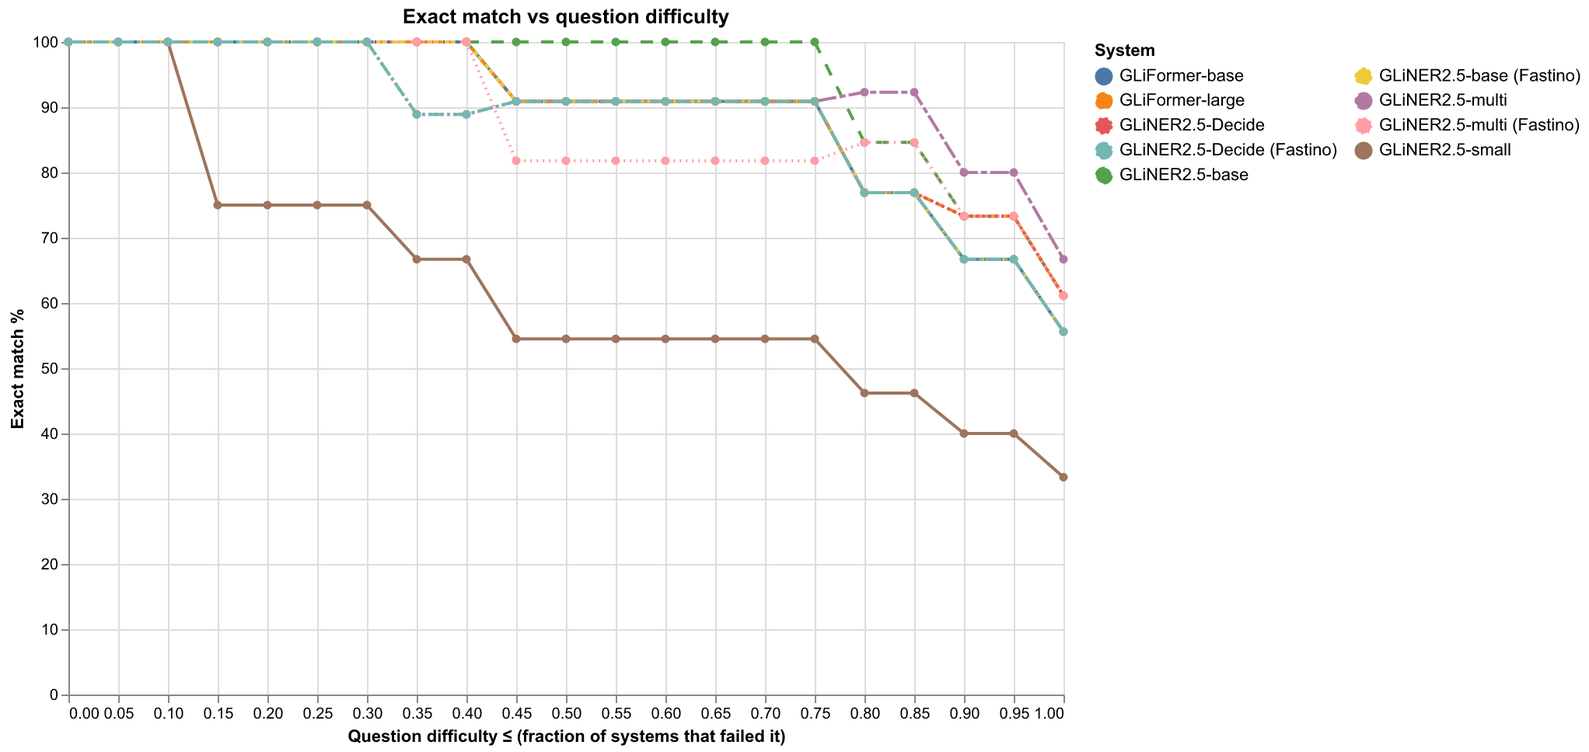
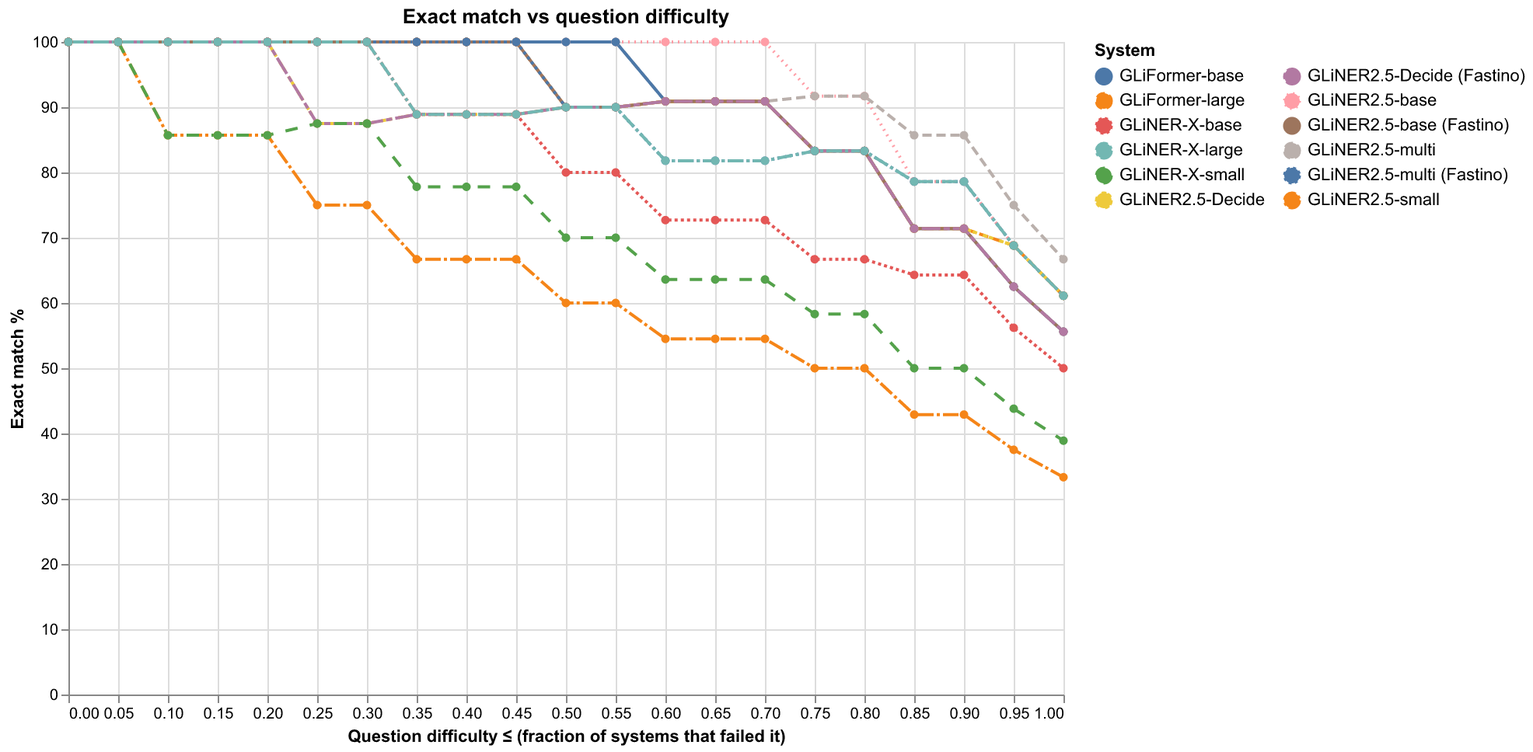
docs(readme,charts): record GLiNER-X's spectrum and multilingual runs

diff --git a/README.md b/README.md
@@ -1,7 +1,7 @@
 # zero-shot-ie-bench
 
-Sixty-five zero-shot systems (sixty-two of them benchmarked) across
-thirty-three information-extraction and classification families —
+Sixty-eight zero-shot systems (sixty-five of them benchmarked) across
+thirty-four information-extraction and classification families —
 extractor encoders, a purpose-built classifier, cross-encoder rerankers,
 and typed-decision engines (local and cloud, the hosted ones behind
 OpenRouter's decision and rerank endpoints plus Fastino's API, plus five
@@ -14,6 +14,7 @@ Just here for the results? **[Skip to the benchmark charts](#benchmark-charts)**
 | System | Kind | Size | License | Cost |
 |---|---|---|---|---|
 | [GLiNER 2.5](https://github.com/fastino-ai/GLiNER2) (`fastino/gliner2.5-*`) | local extractor encoder (boundary arch) | 74M / 194M / 287M | Apache 2.0 | $0 · local |
+| [GLiNER-X](https://huggingface.co/knowledgator/gliner-x-small) (`knowledgator/gliner-x-{small,base,large}`) | local multilingual extractor encoder (span-level gliner over an mT5 encoder — the first non-DeBERTa GLiNER here — with a stanza word splitter; NER-only, HF-card-only release) | 300M / 494M / 865M | Apache 2.0 | $0 · local |
 | [GLiNER2.5-Decide](https://huggingface.co/fastino/GLiNER2.5-Decide) (`fastino/GLiNER2.5-Decide`) | local decision-tuned classifier in the GLiNER 2.5 family (spans + label heads, one pass) | 340M | Apache 2.0 | $0 · local |
 | [GLiFormer](https://github.com/Knowledgator/GLiFormer) (`knowledgator/gliformer-*`) | local extractor encoder (layout-aware DeBERTa) | ~190M / 575.6M | Apache 2.0 | $0 · local |
 | [GLiREL](https://github.com/jackboyla/GLiREL) (`jackboyla/glirel-large-v0`) | local zero-shot relation extractor (label-prompted encoder over entity pairs) | ~467M | CC BY-NC-SA 4.0 | $0 · local |
@@ -72,6 +73,7 @@ tokens but no $, so its figures are derived — list price × measured
 tokens, the same rule as the Clef pair's and GLiDE's numbers.
 
 Four mechanism families are represented — **extractors** (GLiNER 2.5,
+GLiNER-X: spans only, multilingual by design,
 GLiFormer: spans/entities/relations/records, plus GLiREL: zero-shot
 relations over entity pairs it is handed, GLiNER-relex: joint NER +
 relations in one pass, and ReLiK: retriever-reader relations over a
@@ -104,7 +106,8 @@ models — NLI entailment classifiers, the Semantic-Router `decision`, the
 full JevK5 4B and Winnow E4B). The GLiNER lineage
 forked between Fastino (GLiNER 2.5, original author Urchade Zaratiana)
 and Knowledgator (classic `gliner` — GLiNER-relex is that line's joint
-NER+relations checkpoint — plus GLiFormer, GLiClass); GLiREL
+NER+relations checkpoint — plus GLiFormer, GLiClass, and 2026's
+GLiNER-X, the line's first mT5-encoder generation); GLiREL
 (jackboyla) grows out of the same architecture into relation extraction,
 and Laya's card positions itself as the open local counterpart of cloud
 Jev.
@@ -153,11 +156,11 @@ Caveats worth knowing:
   collapse Laya onto one label (58.3%); benchmarked with strings, where
   it scores 95.8%.
 
-## Mixed-pool spectrum benchmark (all 62 systems)
+## Mixed-pool spectrum benchmark (all 65 systems)
 
 `bench_spectrum.py` — the headline comparison. Every system answers the
 same **one mixed pool** of 48 classification questions (sentiment + topic,
-varying difficulty); the six local extractors and the three hosted GLiNER
+varying difficulty); the nine local extractors and the three hosted GLiNER
 twins also answer 18 NER questions.
 Question difficulty is **measured** as the fraction of answering systems
 that got it wrong; the web UI plots accuracy along that spectrum, and
@@ -223,9 +226,12 @@ exact span-set match (18 questions). † = hosted via OpenRouter (non-ZDR):
 | LFM2.5-RLCD 350M | 56.2% | 0.469 | n/a | |
 | Lumma-fev 0.15B | 56.2% | 0.256 | n/a | |
 | Lumma-fev 0.6B | 54.2% | 0.587 | n/a | |
+| GLiNER-X-base | 45.8% | 0.103 | 50% | 0.079 |
 | so1 + Qwen2.5-0.5B | 43.8% | 0.237 | n/a | |
 | Verdict 151M (local) | 39.6% | 0.165 | n/a | |
+| GLiNER-X-large | 39.6% | 0.224 | 61% | 0.162 |
 | nemotron-rerank-vl-1b (OpenRouter) † | 35.4% | 4.521 | n/a | |
+| GLiNER-X-small | 33.3% | 0.063 | 39% | 0.046 |
 | Julia 1 144M | 31.2% | 0.067 | n/a | |
 | nanodiff 350M | 25.0% | 11.56 | n/a | |
 | Certo 421M | 22.9% | 1.014 | n/a | |
@@ -360,6 +366,20 @@ Takeaways:
 - Verdict abstains on 22/48 (abstention scores wrong): 73% on what it
   answers, 39.6% overall. so1 works mechanically, but a 0.5B base LLM is not
   enough brain — swap in a bigger one.
+- **GLiNER-X: the first mT5-backbone GLiNER here is a NER specialist, not
+  a decision engine** — Knowledgator's 2026-04-29 multilingual generation
+  (300M / 494M / 865M; HF-card-only release, no blog, no paper) swaps
+  DeBERTa for an mT5 encoder and a stanza word splitter, in its own
+  `.venv-glinerx` (the card's `gliner[stanza]` install resolves
+  transformers 5.x — incompatible with the pinned main venv). NER exact
+  scales with size, 39% → 50% → 61%, and the large lands level with
+  GLiNER2.5-base (61%) at 0.162 s/question — while classification
+  collapses at every size (33.3 / 45.8 / 39.6%): the card never claims
+  it, the training data is NER synthetic, and the vendor multitask
+  prompt's "answers" read like another NER pass over the prompt (GPU,
+  IPO, Biotech, central bank). Benched through the vendor's own mapping
+  as census rows (`engines/glinerx_client.py`), like the other
+  chance-level systems.
 - Chance-level negatives kept as census rows: nanodiff 350M (diffusion
   LM, 25.0%, slowest at 11.6 s/question), Certo 421M (22.9%,
   near-uniform option probabilities) and nanodiff 350M v2 (18.8%,
@@ -468,7 +488,7 @@ images (regenerate with `python make_chart_images.py`):
 Popular: Spanish, French, Chinese · Medium: Vietnamese, Turkish,
 Ukrainian · Rare: **Sinhala**, Icelandic, Welsh. Sentences were verified
 by blind back-translation through an independent model instance (it
-caught 8 errors, including a sentiment-flipping Sinhala word). All 62
+caught 8 errors, including a sentiment-flipping Sinhala word). All 65
 systems answer the same 54 texts.
 
 | System | Popular | Medium | Rare | All |
@@ -532,6 +552,9 @@ systems answer the same 54 texts.
 | nanodiff 350M | 28% | 39% | 39% | 35% |
 | Lumma-fev 0.15B | 39% | 33% | 33% | 35% |
 | nanodiff 350M v2 | 39% | 28% | 33% | 33% |
+| GLiNER-X-small | 33% | 28% | 33% | 31% |
+| GLiNER-X-base | 33% | 28% | 33% | 31% |
+| GLiNER-X-large | 33% | 33% | 28% | 31% |
 | gliclass-edge | 50% | 22% | 22% | 31% |
 | Certo 421M | 28% | 28% | 33% | 30% |
 | Verdict 151M (local) | 50% | 11% | 6% | 22% |
@@ -588,6 +611,16 @@ surprisingly well for an English-family release (81%, 100% Chinese,
   joint-best local Sinhala 67%); 100%-on-Sinhala is shared by ten
   systems — Jev, jevk5 4B, winnow e4b, Solar Decide, Clef, Clef-flash,
   GLiDE, hosted Kev 4B, Span-01 and Intern-Decision 0.8B.
+- **GLiNER-X's multilingual rows are census rows, not a multilingual
+  result** — the mT5-encoder family is NER-only (the card claims token
+  classification and trains on NER synthetic data), so all three sizes
+  answer the 54 sentiment texts through the vendor multitask prompt and
+  collapse onto one label: 31.5% overall (popular 33 / medium 28 / rare
+  28-33), i.e. the two negative texts per language and nothing else, at
+  0.106-0.252 s/text. The card's ~21-language coverage (incl. lt, et,
+  lv, sl, uk, da, sv, no, cs, pl, ar, zh, hi) is an NER claim this
+  sentiment-only bench cannot score — there is no multilingual NER pool
+  here to show it in.
 - bge-reranker-v2-m3's flat 67/67/67 is structural: it never predicts
   neutral (35 neg / 19 pos across all 54 texts), so every language
   scores exactly 4/6 — right on the four subjective texts, wrong on
@@ -603,24 +636,24 @@ surprisingly well for an English-family release (81%, 100% Chinese,
 
 ## Feature comparison
 
-| Capability | GLiNER 2.5 | GLiNER 2.5 (Fastino) | GLiFormer | GLiClass | Rerankers | Laya | von | so1 | Jev | Kev | AgentJev | decider | OpenThai | Verdict | JevK5-Lite | LFM2.5-RLCD | Certo | MoJev | nanodiff | nanodiff v2 | NLI (Ollaya) | decision (Ollaya) | JevK5 4B (Ollaya) | winnow (Ollaya) | Lumma | Julia | Intern-Decision | K2-Type | Decision 2.0 |
-| --- | --- | --- | --- | --- | --- | --- | --- | --- | --- | --- | --- | --- | --- | --- | --- | --- | --- | --- | --- | --- | --- | --- | --- | --- | --- | --- | --- | --- | --- |
-| Ability group | Extractor | Extractor (hosted twin, Fastino API) | Extractor | Classifier | Cross-encoder rerankers (decision via argmax) | Decision engine | Decision engine | Decision engine (BYO LLM) | Decision engine (cloud) | Decision engine (local, open weights) | Decision engine (local, open weights) | Decision engine (local, open weights) | Decision engine (local, open weights) | Decision engine (local, encoder head) | Decision engine (local, label-head encoder) | Decision engine (local, constrained decoding) | Decision engine (local, per-option score head) | Decision engine (local, packed one-pass scoring) | Decision engine (local, diffusion LM) | Decision engine (local, diffusion LM) | Decision engine (local, NLI entailment) | Decision engine (local, endpoint head) | Decision engine (local, GGUF letter-logit LLM) | Decision engine (local, GGUF letter-logit LLM) | Decision engine (local, one forward over packed questions) | Decision engine (local, encoder + decision head) | Decision engine (local, masked-slot symbol logits) | Decision engine (local, pointer head over packed questions) | Decision engine (local, trained candidate head) |
-| Zero-shot NER spans | ✅ | ✅ | ✅ | ❌ | ❌ | ❌ | ❌ | ❌ | ❌ | ❌ | ❌ | ❌ | ❌ | ❌ | ❌ | ❌ | ❌ | ❌ | ❌ | ❌ | ❌ | ❌ | ❌ | ❌ | ❌ | ❌ | ❌ | ❌ | ❌ |
-| Text classification | ✅ | ✅ | ✅ | ✅ | ✅ via argmax | ✅ choice | ✅ choice | ✅ choice | ✅ choice | ✅ choice | ✅ choice | ✅ choice | ✅ choice | ✅ choice | ✅ choice | ✅ choice | ✅ choice | ✅ choice | ✅ choice | ✅ choice | ✅ choice | ✅ choice | ✅ choice | ✅ choice | ✅ choice | ✅ choice | ✅ choice | ✅ choice | ✅ choice |
-| All labels scored in one pass | ✅ | ✅ (all labels ride one request's schema) | ✅ | ✅ (its core design) | ❌ one pair per label | ✅ | ✅ | ✅ packed | ✅ one request | ✅ one request | ✅ one request | ✅ one request | ✅ one request | ✅ per query | ✅ one pass | ✅ per field | ✅ one pass | ✅ packed | ✅ one forward | ✅ one forward | ✅ all option pairs, one batched pass | ❌ one row per question | ❌ one pass per question | ❌ one question at a time (state evaluated once per request) | ✅ (all questions one forward) | ✅ (questions independently scored in one batch) | ✅ (per text, all questions one forward — up to 16 questions/request) | ✅ (all questions one forward) | ✅ (all questions one forward) |
-| Relations | ✅ + JointIE graph | ✅ | ✅ joint head | ❌ | ❌ | ❌ | ❌ | ❌ | ❌ | ❌ | ❌ | ❌ | ❌ | ❌ | ❌ | ❌ | ❌ | ❌ | ❌ | ❌ | ❌ | ❌ | ❌ | ❌ | ❌ | ❌ | ❌ | ❌ | ❌ |
-| Span attributes (per-entity sentiment) | ✅ | ✅ (multi twin) | ❌ | ❌ | ❌ | ❌ | ❌ | ❌ | ❌ | ❌ | ❌ | ❌ | ❌ | ❌ | ❌ | ❌ | ❌ | ❌ | ❌ | ❌ | ❌ | ❌ | ❌ | ❌ | ❌ | ❌ | ❌ | ❌ | ❌ |
-| Structured records | ✅ flat, anchor-based | ✅ | ✅ nested Pydantic | ❌ | ❌ | ❌ | ❌ | ❌ | ❌ | ❌ | ❌ | ❌ | ❌ | ❌ | ❌ | ✅ flat closed schema (3 fields + AR baseline demoed) | ❌ | ❌ | ❌ | ❌ | ❌ | ❌ | ❌ | ❌ | ❌ | ❌ | ❌ | ❌ | ❌ |
-| Ordinal score rubrics | ✅ via Decide (demoed) | ✅ via Decide twin (classifications demoed) | ❌ | ❌ | ❌ | ✅ score | ✅ rate (demoed) | ✅ scale (demoed) | ✅ score (demoed) | ✅ score (demoed) | ✅ score (demoed) | ✅ score (demoed) | ✅ score (demoed) | ✅ score (demoed) | ❌ (lite is classification-only) | ✅ enum rubric (demoed) | ❌ | ✅ score (demoed) | ❌ | ❌ | ✅ score (demoed) | ✅ score (demoed) | ✅ score (demoed) | ✅ score (demoed) | ✅ score | ✅ score | ✅ score | ✅ score | ✅ score |
-| Yes/no judgments | ❌ | ❌ | ❌ | ❌ | ❌ | ✅ noul | ✅ judge (demoed) | ✅ yes_no (demoed) | ✅ noul (demoed) | ✅ noul (demoed) | ✅ boolean (demoed) | ✅ noul (demoed) | ✅ noul (demoed) | ✅ noul (demoed) | ❌ | ✅ boolean (demoed) | ❌ | ✅ noul (demoed) | ❌ | ❌ | ✅ noul | ✅ noul | ✅ (true/false read as A/B) | ✅ (labels read as letters) | ✅ noul | ✅ noul | ✅ noul | ✅ noul | ✅ noul |
-| Text embeddings | ❌ | ❌ | ✅ 1024-d | ❌ (reranker-capable) | ❌ (cross-encoders only) | ❌ | ❌ | ❌ | ❌ | ❌ | ❌ | ❌ | ❌ | ❌ | ❌ | ❌ | ❌ | ❌ | ❌ | ❌ | ❌ | ❌ | ❌ | ❌ | ❌ | ❌ | ❌ | ❌ | ❌ |
-| Multilingual | ✅ multi ckpt (89% over 9 langs here) | ✅ multi twin (89% over 9 langs here, = local) | ❌ English (63%) | ✅ large 81% over 9 langs | bge-v2-m3 67% over 9 langs; mxbai 48% / GTE 44% | ✅ Router, 100+ langs (76%) | option-marker: 48% over 9 langs | = base LLM's languages (37%) | ✅ 100% incl. Sinhala | ✅ 78% over 9 langs | 63% over 9 langs | 83% over 9 langs | 83% over 9 langs | 22% over 9 langs | ✅ 78% over 9 langs | 52% over 9 langs | 30% over 9 langs | ✅ 83% over 9 langs | 35% over 9 langs | 33% over 9 langs | deberta 69% / modernbert 46% over 9 langs | ✅ 89% over 9 langs (best local tie) | ✅ 100% incl. Sinhala (only local 100%) | ✅ 98% over 9 langs (100% Sinhala) | ✅ 96% over 9 langs (4B; small ckpts 35–37%, English-centric) | 52% over 9 langs, rare-tier 56% (mmBERT) | ✅ 98% over 9 langs (4B; 0.8B 89%, 2B 91%) | ✅ 83% over 9 langs (rare-tier 56%) | 74–83% over 9 langs by size (Sol 83%); rare tier 44–61% |
-| Runs offline / data local | ✅ | ❌ (Fastino API, ZDR) | ✅ | ✅ | ✅ | ✅ | ✅ | ✅ | ❌ | ✅ | ✅ | ✅ | ✅ | ✅ | ✅ | ✅ | ✅ | ✅ | ✅ | ✅ | ✅ | ✅ | ✅ | ✅ | ✅ | ✅ | ✅ | ✅ | ✅ |
-| Image input | ❌ | ❌ | ❌ | ❌ | hosted Nemotron VL only (image documents, `demos/nemotron_vl_demo.py`); local trio + Cohere/Voyage are text-only | ❌ | ❌ | ❌ | ❌ | ❌ | ❌ | ❌ | ❌ | ❌ | ❌ | ❌ | ❌ | ❌ | ❌ | ❌ | ❌ | ❌ | ❌ | ❌ | ❌ | ❌ | ✅ (vision tower + projector ship in every snapshot; 1–8 images per request, same one forward — `demos/intern_decision_image_demo.py`) | ❌ | ❌ |
-| Cost | free | $0.03/1M input (output $0) | free | free | free | free | free | free | $0.042/1M input | free (CPU time) | free (CPU time) | free (CPU time) | free (CPU time) | free (CPU time) | free (CPU time) | free (CPU time) | free (CPU time) | free (CPU time) | free (CPU time) | free (CPU time) | free (CPU time) | free (CPU time) | free (CPU time) | free (CPU time) | free (CPU time) | free (CPU time) | free (CPU time) | free (CPU time) | free (CPU time) |
-| License | Apache 2.0 | Apache 2.0 weights; metered hosted API | Apache 2.0 | Apache 2.0 | Apache 2.0 | Apache 2.0 | Apache 2.0 | MIT (lib) | proprietary API | Apache 2.0 | Apache 2.0 | Apache 2.0 | Apache 2.0 (package); weights gated | Apache 2.0 | Apache 2.0 | MIT (engine); LFM Open License v1.0 (weights) | MIT (engine + weights) | MIT (engine; Qwen base-model license on encoder weights) | MIT | MIT | MIT (deberta card notes non-commercial training-data parts); Apache 2.0 (modernbert) | Apache 2.0 | Apache 2.0 (NOTICE: some training questions written by an OpenAI model) | Apache 2.0 | Apache 2.0 | Apache 2.0 | Apache 2.0 (Qwen3.5 upstream weights also Apache 2.0) | Apache 2.0 | Apache 2.0 |
-| Batch shape | per text | per text, one request (all labels in the schema) | per text (batch_size) | per text, all labels | per text, one pair per label | all questions, one pass | per text | one packed prompt | all questions, one request | all questions, one request | all questions, one request | all questions, one request | all questions, one request | per text, all options | per text, all heads + labels | per text, all field candidates | per text, all option descriptions | per text, all packed candidates | per text, one masked forward | per text, one masked forward | per text, one pair per option | per text, one row per question | per text, one request per question | per text, one request per question | per text, all questions one forward | per text, all questions one batch | per text, all questions one forward | per text, all questions one forward | per text, all questions one forward |
+| Capability | GLiNER 2.5 | GLiNER 2.5 (Fastino) | GLiFormer | GLiNER-X | GLiClass | Rerankers | Laya | von | so1 | Jev | Kev | AgentJev | decider | OpenThai | Verdict | JevK5-Lite | LFM2.5-RLCD | Certo | MoJev | nanodiff | nanodiff v2 | NLI (Ollaya) | decision (Ollaya) | JevK5 4B (Ollaya) | winnow (Ollaya) | Lumma | Julia | Intern-Decision | K2-Type | Decision 2.0 |
+| --- | --- | --- | --- | --- | --- | --- | --- | --- | --- | --- | --- | --- | --- | --- | --- | --- | --- | --- | --- | --- | --- | --- | --- | --- | --- | --- | --- | --- | --- | --- |
+| Ability group | Extractor | Extractor (hosted twin, Fastino API) | Extractor | Extractor | Classifier | Cross-encoder rerankers (decision via argmax) | Decision engine | Decision engine | Decision engine (BYO LLM) | Decision engine (cloud) | Decision engine (local, open weights) | Decision engine (local, open weights) | Decision engine (local, open weights) | Decision engine (local, open weights) | Decision engine (local, encoder head) | Decision engine (local, label-head encoder) | Decision engine (local, constrained decoding) | Decision engine (local, per-option score head) | Decision engine (local, packed one-pass scoring) | Decision engine (local, diffusion LM) | Decision engine (local, diffusion LM) | Decision engine (local, NLI entailment) | Decision engine (local, endpoint head) | Decision engine (local, GGUF letter-logit LLM) | Decision engine (local, GGUF letter-logit LLM) | Decision engine (local, one forward over packed questions) | Decision engine (local, encoder + decision head) | Decision engine (local, masked-slot symbol logits) | Decision engine (local, pointer head over packed questions) | Decision engine (local, trained candidate head) |
+| Zero-shot NER spans | ✅ | ✅ | ✅ | ✅ | ❌ | ❌ | ❌ | ❌ | ❌ | ❌ | ❌ | ❌ | ❌ | ❌ | ❌ | ❌ | ❌ | ❌ | ❌ | ❌ | ❌ | ❌ | ❌ | ❌ | ❌ | ❌ | ❌ | ❌ | ❌ | ❌ |
+| Text classification | ✅ | ✅ | ✅ | ❌ (NER-only; the vendor multitask prompt collapses — census rows here) | ✅ | ✅ via argmax | ✅ choice | ✅ choice | ✅ choice | ✅ choice | ✅ choice | ✅ choice | ✅ choice | ✅ choice | ✅ choice | ✅ choice | ✅ choice | ✅ choice | ✅ choice | ✅ choice | ✅ choice | ✅ choice | ✅ choice | ✅ choice | ✅ choice | ✅ choice | ✅ choice | ✅ choice | ✅ choice | ✅ choice |
+| All labels scored in one pass | ✅ | ✅ (all labels ride one request's schema) | ✅ | ❌ (one span pass per text) | ✅ (its core design) | ❌ one pair per label | ✅ | ✅ | ✅ packed | ✅ one request | ✅ one request | ✅ one request | ✅ one request | ✅ one request | ✅ per query | ✅ one pass | ✅ per field | ✅ one pass | ✅ packed | ✅ one forward | ✅ one forward | ✅ all option pairs, one batched pass | ❌ one row per question | ❌ one pass per question | ❌ one question at a time (state evaluated once per request) | ✅ (all questions one forward) | ✅ (questions independently scored in one batch) | ✅ (per text, all questions one forward — up to 16 questions/request) | ✅ (all questions one forward) | ✅ (all questions one forward) |
+| Relations | ✅ + JointIE graph | ✅ | ✅ joint head | ❌ | ❌ | ❌ | ❌ | ❌ | ❌ | ❌ | ❌ | ❌ | ❌ | ❌ | ❌ | ❌ | ❌ | ❌ | ❌ | ❌ | ❌ | ❌ | ❌ | ❌ | ❌ | ❌ | ❌ | ❌ | ❌ | ❌ |
+| Span attributes (per-entity sentiment) | ✅ | ✅ (multi twin) | ❌ | ❌ | ❌ | ❌ | ❌ | ❌ | ❌ | ❌ | ❌ | ❌ | ❌ | ❌ | ❌ | ❌ | ❌ | ❌ | ❌ | ❌ | ❌ | ❌ | ❌ | ❌ | ❌ | ❌ | ❌ | ❌ | ❌ | ❌ |
+| Structured records | ✅ flat, anchor-based | ✅ | ✅ nested Pydantic | ❌ | ❌ | ❌ | ❌ | ❌ | ❌ | ❌ | ❌ | ❌ | ❌ | ❌ | ❌ | ❌ | ✅ flat closed schema (3 fields + AR baseline demoed) | ❌ | ❌ | ❌ | ❌ | ❌ | ❌ | ❌ | ❌ | ❌ | ❌ | ❌ | ❌ | ❌ |
+| Ordinal score rubrics | ✅ via Decide (demoed) | ✅ via Decide twin (classifications demoed) | ❌ | ❌ | ❌ | ❌ | ✅ score | ✅ rate (demoed) | ✅ scale (demoed) | ✅ score (demoed) | ✅ score (demoed) | ✅ score (demoed) | ✅ score (demoed) | ✅ score (demoed) | ✅ score (demoed) | ❌ (lite is classification-only) | ✅ enum rubric (demoed) | ❌ | ✅ score (demoed) | ❌ | ❌ | ✅ score (demoed) | ✅ score (demoed) | ✅ score (demoed) | ✅ score (demoed) | ✅ score | ✅ score | ✅ score | ✅ score | ✅ score |
+| Yes/no judgments | ❌ | ❌ | ❌ | ❌ | ❌ | ❌ | ✅ noul | ✅ judge (demoed) | ✅ yes_no (demoed) | ✅ noul (demoed) | ✅ noul (demoed) | ✅ boolean (demoed) | ✅ noul (demoed) | ✅ noul (demoed) | ✅ noul (demoed) | ❌ | ✅ boolean (demoed) | ❌ | ✅ noul (demoed) | ❌ | ❌ | ✅ noul | ✅ noul | ✅ (true/false read as A/B) | ✅ (labels read as letters) | ✅ noul | ✅ noul | ✅ noul | ✅ noul | ✅ noul |
+| Text embeddings | ❌ | ❌ | ✅ 1024-d | ❌ | ❌ (reranker-capable) | ❌ (cross-encoders only) | ❌ | ❌ | ❌ | ❌ | ❌ | ❌ | ❌ | ❌ | ❌ | ❌ | ❌ | ❌ | ❌ | ❌ | ❌ | ❌ | ❌ | ❌ | ❌ | ❌ | ❌ | ❌ | ❌ | ❌ |
+| Multilingual | ✅ multi ckpt (89% over 9 langs here) | ✅ multi twin (89% over 9 langs here, = local) | ❌ English (63%) | ✅ 21-language card, NER-only — its classification rows here are chance-level (31.5% over 9 langs; GLiNER2.5-multi 89%) | ✅ large 81% over 9 langs | bge-v2-m3 67% over 9 langs; mxbai 48% / GTE 44% | ✅ Router, 100+ langs (76%) | option-marker: 48% over 9 langs | = base LLM's languages (37%) | ✅ 100% incl. Sinhala | ✅ 78% over 9 langs | 63% over 9 langs | 83% over 9 langs | 83% over 9 langs | 22% over 9 langs | ✅ 78% over 9 langs | 52% over 9 langs | 30% over 9 langs | ✅ 83% over 9 langs | 35% over 9 langs | 33% over 9 langs | deberta 69% / modernbert 46% over 9 langs | ✅ 89% over 9 langs (best local tie) | ✅ 100% incl. Sinhala (only local 100%) | ✅ 98% over 9 langs (100% Sinhala) | ✅ 96% over 9 langs (4B; small ckpts 35–37%, English-centric) | 52% over 9 langs, rare-tier 56% (mmBERT) | ✅ 98% over 9 langs (4B; 0.8B 89%, 2B 91%) | ✅ 83% over 9 langs (rare-tier 56%) | 74–83% over 9 langs by size (Sol 83%); rare tier 44–61% |
+| Runs offline / data local | ✅ | ❌ (Fastino API, ZDR) | ✅ | ✅ (stanza tokenize models cache per language on first use) | ✅ | ✅ | ✅ | ✅ | ✅ | ❌ | ✅ | ✅ | ✅ | ✅ | ✅ | ✅ | ✅ | ✅ | ✅ | ✅ | ✅ | ✅ | ✅ | ✅ | ✅ | ✅ | ✅ | ✅ | ✅ | ✅ |
+| Image input | ❌ | ❌ | ❌ | ❌ | ❌ | hosted Nemotron VL only (image documents, `demos/nemotron_vl_demo.py`); local trio + Cohere/Voyage are text-only | ❌ | ❌ | ❌ | ❌ | ❌ | ❌ | ❌ | ❌ | ❌ | ❌ | ❌ | ❌ | ❌ | ❌ | ❌ | ❌ | ❌ | ❌ | ❌ | ❌ | ❌ | ✅ (vision tower + projector ship in every snapshot; 1–8 images per request, same one forward — `demos/intern_decision_image_demo.py`) | ❌ | ❌ |
+| Cost | free | $0.03/1M input (output $0) | free | free | free | free | free | free | free | $0.042/1M input | free (CPU time) | free (CPU time) | free (CPU time) | free (CPU time) | free (CPU time) | free (CPU time) | free (CPU time) | free (CPU time) | free (CPU time) | free (CPU time) | free (CPU time) | free (CPU time) | free (CPU time) | free (CPU time) | free (CPU time) | free (CPU time) | free (CPU time) | free (CPU time) | free (CPU time) | free (CPU time) |
+| License | Apache 2.0 | Apache 2.0 weights; metered hosted API | Apache 2.0 | Apache 2.0 | Apache 2.0 | Apache 2.0 | Apache 2.0 | Apache 2.0 | MIT (lib) | proprietary API | Apache 2.0 | Apache 2.0 | Apache 2.0 | Apache 2.0 (package); weights gated | Apache 2.0 | Apache 2.0 | MIT (engine); LFM Open License v1.0 (weights) | MIT (engine + weights) | MIT (engine; Qwen base-model license on encoder weights) | MIT | MIT | MIT (deberta card notes non-commercial training-data parts); Apache 2.0 (modernbert) | Apache 2.0 | Apache 2.0 (NOTICE: some training questions written by an OpenAI model) | Apache 2.0 | Apache 2.0 | Apache 2.0 | Apache 2.0 (Qwen3.5 upstream weights also Apache 2.0) | Apache 2.0 | Apache 2.0 |
+| Batch shape | per text | per text, one request (all labels in the schema) | per text (batch_size) | per text | per text, all labels | per text, one pair per label | all questions, one pass | per text | one packed prompt | all questions, one request | all questions, one request | all questions, one request | all questions, one request | all questions, one request | per text, all options | per text, all heads + labels | per text, all field candidates | per text, all option descriptions | per text, all packed candidates | per text, one masked forward | per text, one masked forward | per text, one pair per option | per text, one row per question | per text, one request per question | per text, one request per question | per text, all questions one forward | per text, all questions one batch | per text, all questions one forward | per text, all questions one forward | per text, all questions one forward |
 
 ## Setup
 
@@ -646,6 +679,18 @@ uv pip install --python .venv-von -r requirements-von.txt
 # engines/relik_client.py installs — no site-packages patching):
 uv venv --python 3.11 .venv-relik
 uv pip install --python .venv-relik -r requirements-relik.txt
+# GLiNER-X (Knowledgator's mT5-encoder multilingual family) loads through
+# the classic gliner package with the stanza extra (per the model card);
+# a fresh gliner[stanza] resolve wants transformers 5.x, so it gets its
+# own venv instead of touching the pinned main stack:
+uv venv .venv-glinerx
+uv pip install --python .venv-glinerx "gliner[stanza]"
+# the checkpoints' config sets words_splitter_type=stanza, so the word
+# splitter language-detects every text and lazily builds a stanza
+# tokenize pipeline per language — the first bench run downloads those
+# per-language models (Windows cache:
+# %LOCALAPPDATA%/StanfordNLP/stanza/Cache) and the multilingual bench
+# warms them untimed before its timed loop
 # Kev (Jev's open-weights lookalike) serves the same System One contract
 # locally; it needs transformers >=5.17, so it runs from its own clone:
 git clone https://github.com/jaredpalmer/kev.git ../kev
@@ -876,25 +921,37 @@ C:/venvs/agent-jev/Scripts/python demos/verdict_demo.py
                                          # served models (needs `ollaya
                                          # serve`; --models=nli,decision
                                          # picks a subset)
+.venv-glinerx/Scripts/python demos/glinerx_demo.py --tour
+                                         # GLiNER-X tour: multilingual NER
+                                         # (mT5 encoder + stanza word
+                                         # splitter) + the NER-only
+                                         # classification caveat
+                                         # (.venv-glinerx; see setup)
 
 .venv/Scripts/python bench.py            # flat suite, 5 runs per case
                                          # (--repeats N) → results/bench_results.json
 .venv/Scripts/python bench_spectrum.py --system <name>   # one mixed pool per
                                          # system → results/bench_spectrum_results.json
-                                         # (62 systems; von, JevK5-Lite,
+                                         # (65 systems; von, JevK5-Lite,
                                          # LFM2.5-RLCD 350M, MoJev 0.85B,
                                          # Lumma-Fev, Julia 1,
                                          # Intern-Decision, K2-Type and
                                          # Decision 2.0:
                                          # same command
                                          # under .venv-von/Scripts/python)
+# GLiNER-X runs in-process from .venv-glinerx (classic gliner + stanza):
+.venv-glinerx/Scripts/python bench_spectrum.py --system GLiNER-X-small
+.venv-glinerx/Scripts/python bench_spectrum.py --system GLiNER-X-base
+.venv-glinerx/Scripts/python bench_spectrum.py --system GLiNER-X-large
 # decider/OpenThai speak plain HTTP, so any interpreter works — but Verdict
 # imports rlcd in-process and needs the transformers-5 agent-jev interpreter:
 C:/venvs/agent-jev/Scripts/python bench_spectrum.py --system "Verdict 151M (local)"
 .venv/Scripts/python bench_multilingual.py --system <name>
-                                         # 9 languages, all 62 systems →
+                                         # 9 languages, all 65 systems →
                                          # results/bench_multilingual_results.json
                                          # (same interpreter rules)
+.venv-glinerx/Scripts/python bench_multilingual.py --system GLiNER-X-small
+                                         # (also GLiNER-X-base / GLiNER-X-large)
 .venv-von/Scripts/python bench_multilingual.py --system "Lumma-fev 0.15B"
                                          # (also "Lumma-fev 0.6B" / "Lumma-fev 4B")
 .venv-von/Scripts/python bench_multilingual.py \
@@ -938,7 +995,8 @@ C:/venvs/agent-jev/Scripts/python bench_spectrum.py --system "Verdict 151M (loca
 `app.py` serves a live demo tab per family — GLiNER 2.5 (checkpoint
 selector includes GLiNER2.5-Decide, plus a Decide score-rubric
 section), GLiFormer, GLiREL, GLiNER-relex,
-ReLiK, GLiClass, Rerankers, Laya, von, JevK5-Lite, LFM2.5-RLCD, Certo,
+ReLiK, GLiNER-X (small/base/large checkpoint dropdown), GLiClass,
+Rerankers, Laya, von, JevK5-Lite, LFM2.5-RLCD, Certo,
 MoJev, nanodiff (v1/v2 checkpoint radio), Lumma (0.15B/0.6B/4B
 checkpoint dropdown), Julia,
 Intern-Decision (0.8B/2B/4B checkpoint dropdown), K2-Type, Decision 2.0 (Kai/Eos/Sol checkpoint dropdown), so1 (choice plus a
@@ -962,7 +1020,10 @@ Julia, Intern-Decision, K2-Type, Decision 2.0) spawn one-shot `demos/*_demo.py -
 its model once per click in a single `.venv-von` process; nanodiff does
 the same under the main venv, and ReLiK spawns `demos/relik_demo.py`
 from `.venv-relik`
-(first click loads the pipeline and, once, downloads ~700 MB). von's
+(first click loads the pipeline and, once, downloads ~700 MB), while
+GLiNER-X spawns `demos/glinerx_demo.py` from `.venv-glinerx` (first
+click loads the checkpoint; the very first use also downloads the
+weights and stanza's per-language tokenize models). von's
 shared loader (`engines/von_client.py`) pins the
 upstream SDK and model revision and requires the complete
 `option_marker.pt` state dict — missing or incompatible weights fail
@@ -990,6 +1051,9 @@ extra Laya checkpoints noted below):
 | `fastino/GLiNER2.5-Decide` | 340M | decision-tuned sibling — benchmarked; best local cls on the mixed pool |
 | `knowledgator/gliformer-base-v1` | ~190M | benchmarked; best NER F1 here |
 | `knowledgator/gliformer-large-v1` | 575.6M | benchmarked; family is base+large only, no small |
+| `knowledgator/gliner-x-small` | 300M | mT5-encoder span-level gliner, stanza word splitter; HF-card-only release 2026-04-29 — benchmarked |
+| `knowledgator/gliner-x-base` | 494M | same mT5 generation at the middle scale — benchmarked |
+| `knowledgator/gliner-x-large` | 865M | largest of the three — benchmarked; NER exact 61% here (level with GLiNER2.5-base) but NER-only: classification collapses at every size |
 | `convaiinnovations/laya` (+multilingual, typed-decisions) | 421M / 322M | English root benchmarked; subfolders exist for the other two |
 | `jaredpalmer/kev-0.8b` | 0.8B (9.3M trained) | Qwen3.5 base + LoRA/head; 4B/9B siblings exist but are impractical on CPU — 0.8B benchmarked |
 | `aimeigaoshou/agent-jev` | 0.6B | Qwen3 base, LM head swapped for a candidate head; single checkpoint — benchmarked |
@@ -1121,7 +1185,9 @@ LFM2.5-RLCD 350M, nanodiff 350M); the rest:
 | `demos/von_demo.py` | von tour (shared-text choice, then a judge and a rate stop on one shared sample) + one-shot runner (`--serve`, choice and judge_rate modes) inside `.venv-von`, spawned by both von tab sections |
 | `engines/von_client.py` | pinned, complete option-marker checkpoint loader (decide/judge/rate wrappers over evaluate_choice/evaluate_noul/evaluate_score) shared by demo, tab and benchmarks |
 | `demos/relik_demo.py` | one-shot ReLiK runner inside `.venv-relik`, spawned by the ReLiK tab |
+| `demos/glinerx_demo.py` | GLiNER-X tour (`--tour`: multilingual NER + the NER-only classification caveat) + one-shot runner (JSON over stdin) inside `.venv-glinerx`, spawned by its web-UI tab |
 | `engines/relik_client.py` | Windows csv shim (SapienzaNLP/relik#39) + strict loader for the ReLiK pipeline, parametrized so the tour can load the joint NER+relation sibling (two relik 1.0.7 load fixes; the benched default is forwarded verbatim) |
+| `engines/glinerx_client.py` | registry + loader for the GLiNER-X family through the classic `gliner` package with the stanza extra (.venv-glinerx; the loader names the venv when the stack is missing) plus the vendor multitask classification mapping (prompt + single-label reduction) and the per-language stanza-splitter warm-up — with the probe notes that established the checkpoints are NER-only |
 | `engines/jev_client.py` | dependency-free Python client for the TypeSafe System One API (also used against the local Kev server) |
 | `engines/agentjev_client.py` | dependency-free client for the local AgentJev loopback API |
 | `engines/openrouter_client.py` | dependency-free client for OpenRouter's `/systemone` and `/rerank` endpoints (hosted Kev 4B, Solar Decide, Span-01, seven rerankers; `OPENROUTER_API_KEY` in repo-root `.env`) |
@@ -1131,7 +1197,7 @@ LFM2.5-RLCD 350M, nanodiff 350M); the rest:
 | `bench.py` | flat-suite benchmark driver (classification + NER, 5× determinism) |
 | `bench_spectrum.py` | the headline mixed-pool benchmark, one run per `--system` |
 | `bench_graded.py` | question pools for the mixed-pool benchmark (source for `bench_spectrum.py`) |
-| `bench_multilingual.py` | 9-language zero-shot suite, all 62 systems (Sinhala/Icelandic/Welsh in the rare tier) |
+| `bench_multilingual.py` | 9-language zero-shot suite, all 65 systems (Sinhala/Icelandic/Welsh in the rare tier) |
 | `make_chart_images.py` | renders the benchmark charts to `docs/charts/*.png` for this README |
 | `results/bench_*_results.json` | latest results, rendered by the web UI |
 
